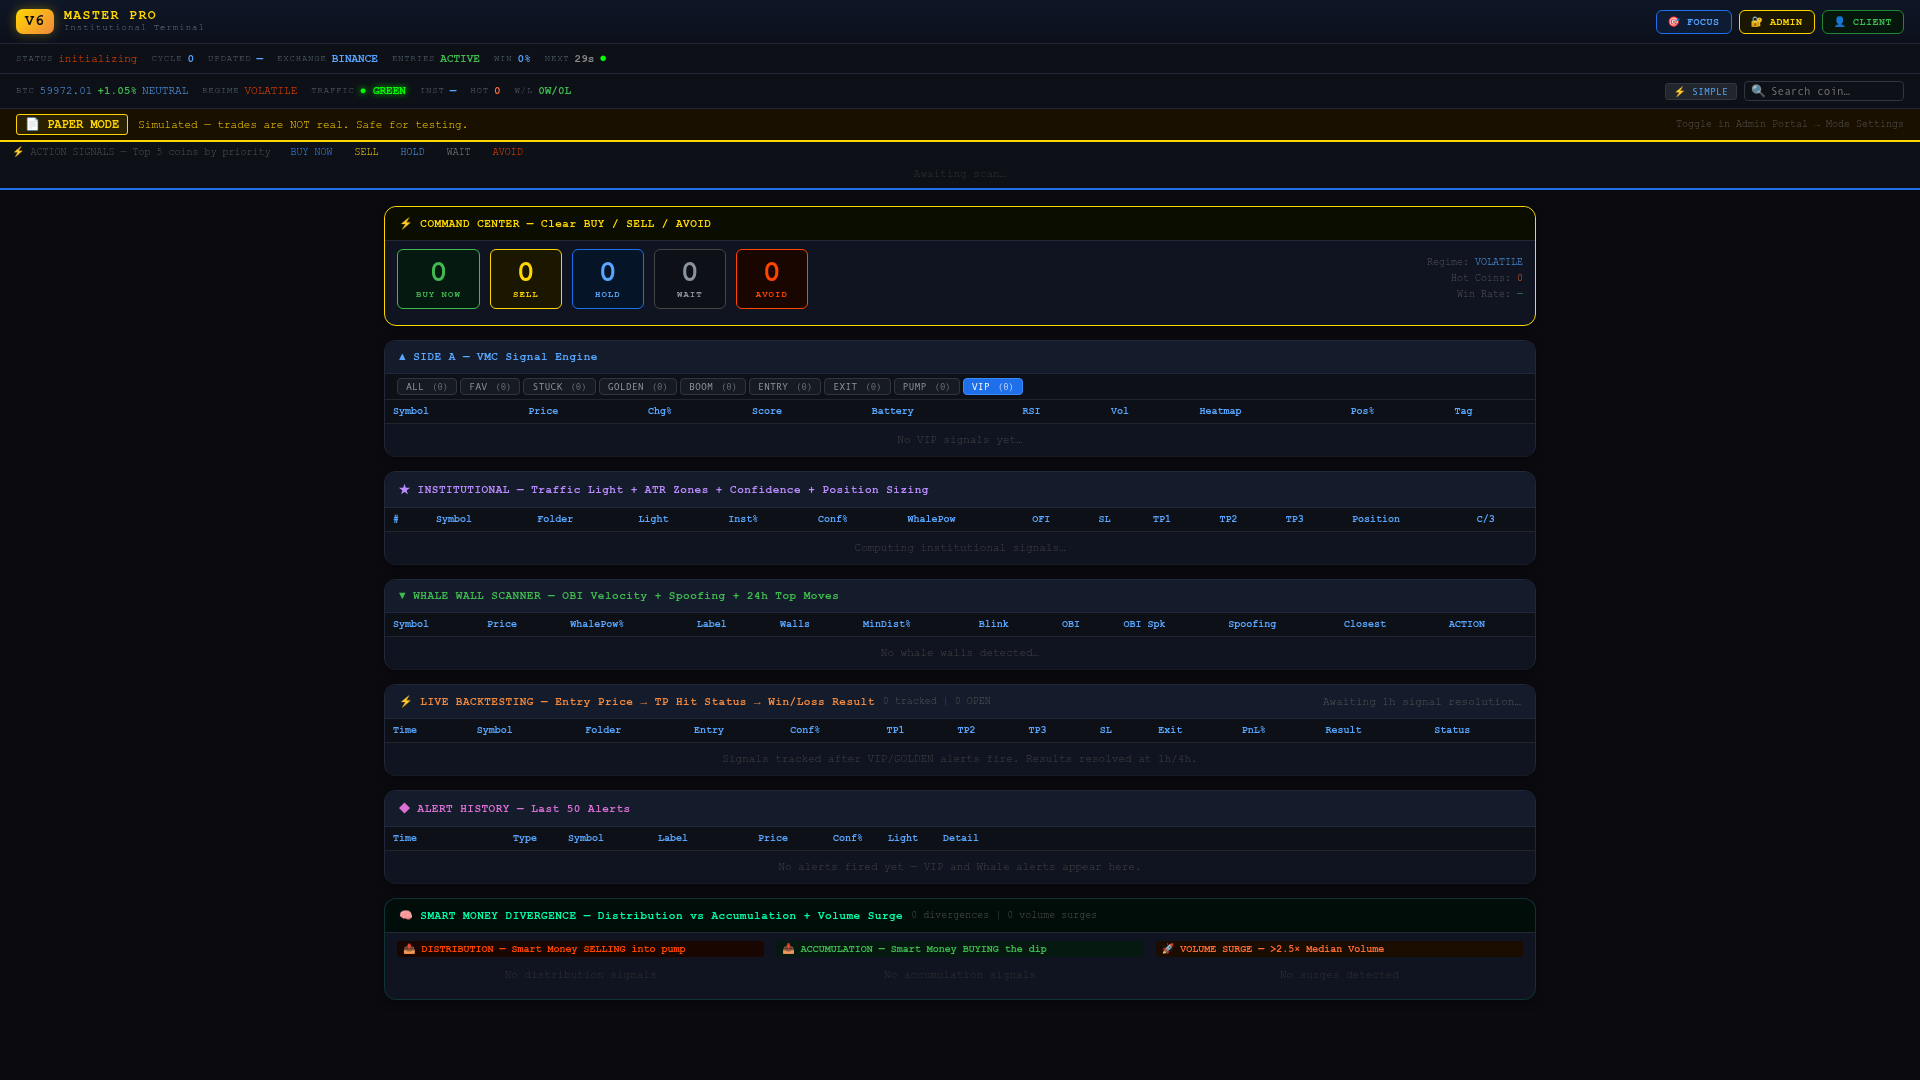
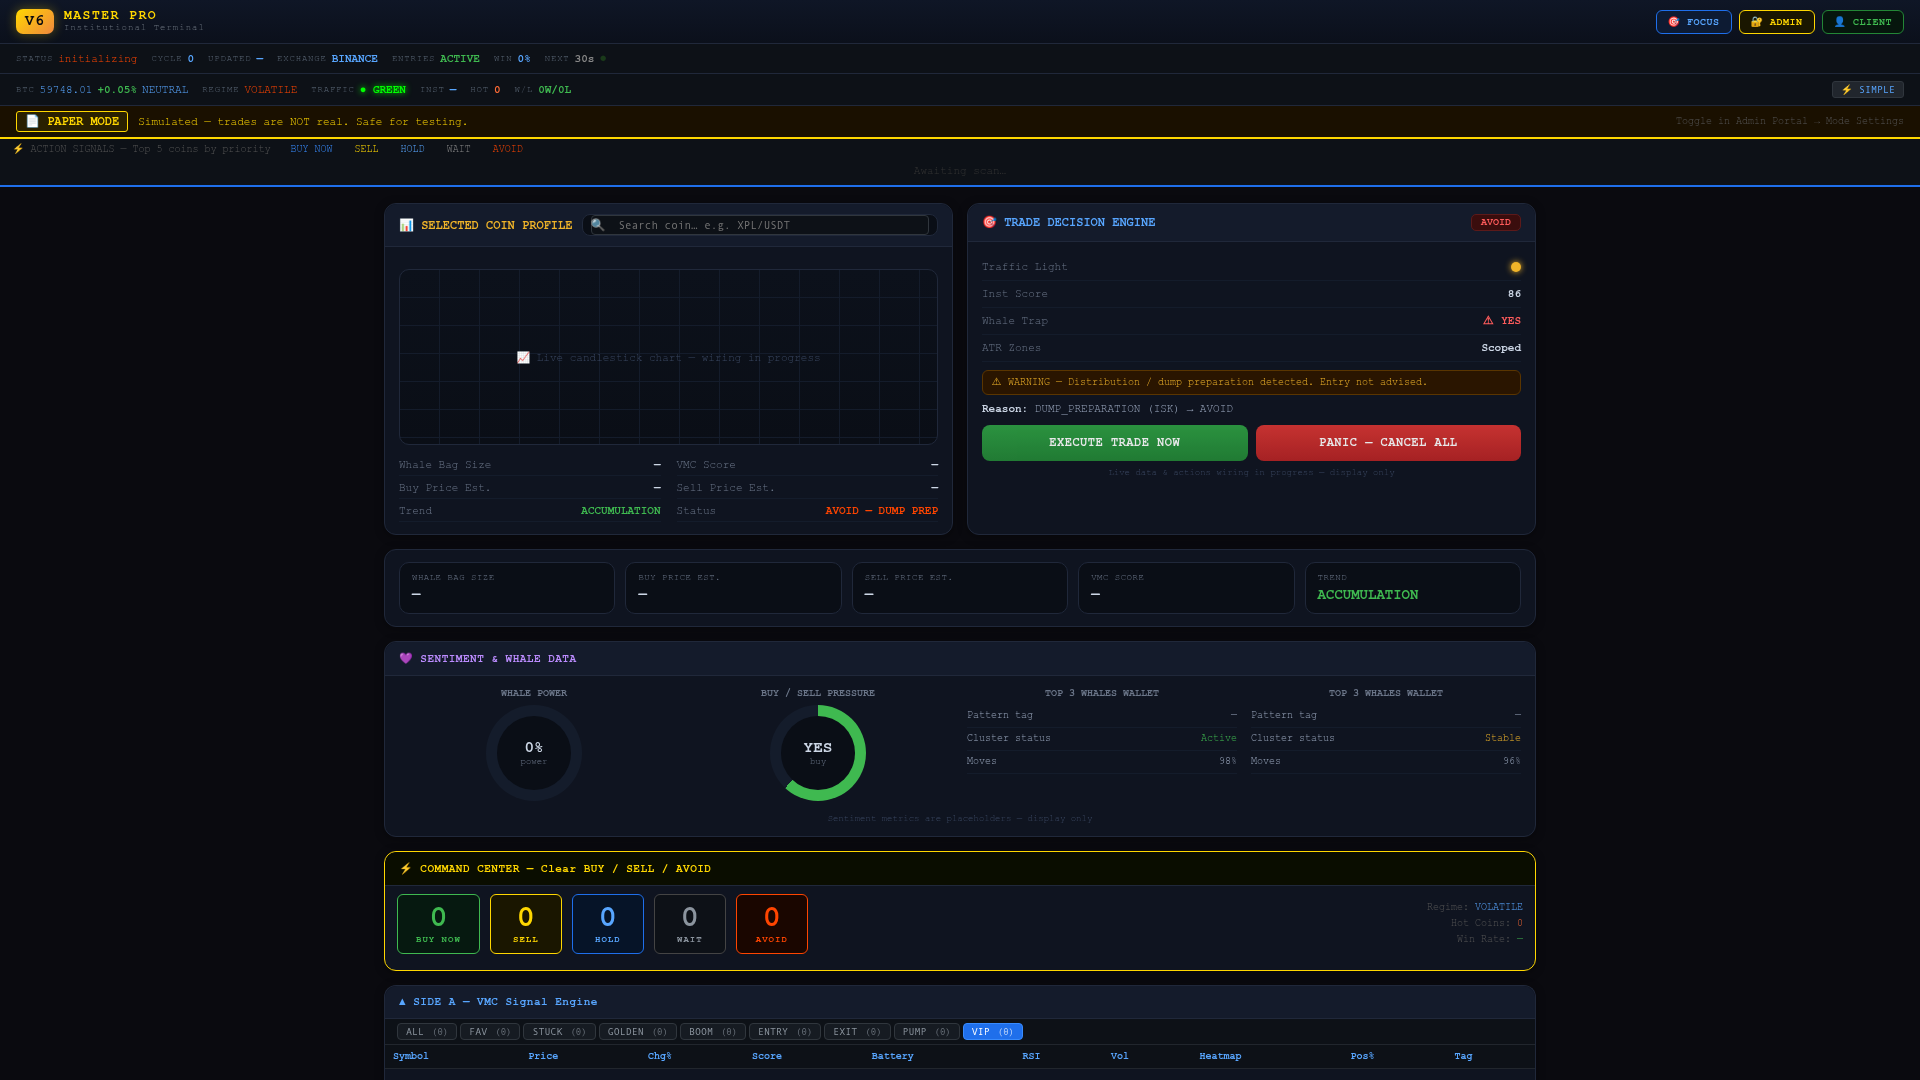
Update the dashboard to match the design and set it as the default view
Implement the redesigned dashboard UI with static placeholders for new components, set it as the default landing page, and preserve all existing live data panels and element IDs.

Replit-Commit-Author: Agent
Replit-Commit-Session-Id: be32f168-d16d-4131-b2b5-eff7703ee3bd
Replit-Commit-Checkpoint-Type: full_checkpoint
Replit-Commit-Event-Id: c21b506f-391d-470a-908d-5cce3a0ce82e
Replit-Commit-Screenshot-Url: https://storage.googleapis.com/screenshot-production-us-central1/96e45e93-5690-48cf-b9a9-a27b3c00e2b2/be32f168-d16d-4131-b2b5-eff7703ee3bd/JWXujlM
Replit-Helium-Checkpoint-Created: true

diff --git a/index.html b/index.html
@@ -391,6 +391,93 @@ tr:hover td { background: #161b22; cursor: pointer; }
       cursor: pointer; font-family: monospace; border: none; margin-left: 3px; vertical-align: middle; }
 .qb-buy  { background: #238636; color: #fff; }
 .qb-sell { background: #b91c1c; color: #fff; }
+/* ══ Terminal Dashboard Components (screenshot layout) ══ */
+.grid-2 { display:grid; grid-template-columns:1fr 1fr; gap:14px; }
+.section-title { font-size:11px; font-weight:bold; letter-spacing:0.6px; color:#7d8aa3;
+  text-transform:uppercase; margin:2px 2px -4px; }
+.card-body { padding:12px 14px; }
+.panel.open { overflow:visible; }
+
+/* Coin Profile */
+.cp-head { display:flex; align-items:center; gap:10px; flex-wrap:wrap; }
+.cp-title { font-weight:bold; color:#f0b429; font-size:12px; white-space:nowrap; }
+.cp-search { position:relative; display:flex; align-items:center; flex:1; min-width:150px;
+  background:#0a0e16; border:1px solid #20283a; border-radius:8px; padding:0 8px; }
+.cp-search input { flex:1; background:transparent; border:none; color:#e6edf3; font-family:inherit;
+  font-size:12px; padding:8px 6px; outline:none; }
+.chart-box { height:176px; margin:10px 0; border-radius:10px; border:1px solid #20283a; position:relative; overflow:hidden;
+  background:
+    repeating-linear-gradient(to right, transparent 0 39px, #141c2b 39px 40px),
+    repeating-linear-gradient(to bottom, transparent 0 27px, #141c2b 27px 28px),
+    linear-gradient(180deg,#0c111b,#0a0e16); }
+.chart-box::after { content:"📈 Live candlestick chart — wiring in progress"; position:absolute; inset:0;
+  display:flex; align-items:center; justify-content:center; color:#3a4761; font-size:11px; }
+.cp-stats { display:grid; grid-template-columns:repeat(2,1fr); gap:2px 16px; font-size:11px; }
+.cp-stat { display:flex; justify-content:space-between; border-bottom:1px solid #141c2b; padding:4px 0; }
+.cp-stat .k { color:#6b7689; } .cp-stat .v { color:#cdd7e6; font-weight:bold; }
+
+/* Trade Decision Engine */
+.tde-head { display:flex; align-items:center; gap:8px; }
+.tde-title { font-weight:bold; color:#58a6ff; font-size:12px; }
+.tde-badge { margin-left:auto; font-size:10px; font-weight:bold; padding:2px 9px; border-radius:5px;
+  background:#3a0d0d; color:#ff5c5c; border:1px solid #5c1a1a; }
+.tde-row { display:flex; align-items:center; gap:8px; padding:7px 0; border-bottom:1px solid #141c2b; font-size:11px; }
+.tde-row .k { color:#6b7689; flex:1; }
+.tde-row .v { font-weight:bold; color:#cdd7e6; }
+.dot { width:10px; height:10px; border-radius:50%; display:inline-block; vertical-align:middle; }
+.dot.green{background:#3fb950;box-shadow:0 0 6px #3fb950;} .dot.red{background:#ff4500;box-shadow:0 0 6px #ff4500;}
+.dot.amber{background:#f0b429;box-shadow:0 0 6px #f0b429;}
+.tde-warn { background:#2a1500; border:1px solid #5a3500; color:#f0b429; font-size:10px;
+  padding:6px 9px; border-radius:6px; margin:8px 0; }
+.tde-reason { font-size:11px; color:#9aa7bd; margin:6px 0; }
+.tde-reason b { color:#cdd7e6; }
+.tde-actions { display:flex; gap:8px; margin-top:10px; }
+.btn-execute,.btn-panic { flex:1; border:none; border-radius:8px; padding:11px; font-weight:bold;
+  font-family:inherit; font-size:12px; cursor:not-allowed; letter-spacing:0.5px; opacity:0.9; }
+.btn-execute { background:linear-gradient(180deg,#2ea043,#238636); color:#fff; }
+.btn-panic { background:linear-gradient(180deg,#da3633,#b62324); color:#fff; }
+.wired-note { font-size:9px; color:#3a4761; text-align:center; margin-top:7px; }
+
+/* Metric strip (whale bag / price est) */
+.metric-row { display:grid; grid-template-columns:repeat(5,1fr); gap:10px; }
+.metric { background:#0a0e16; border:1px solid #20283a; border-radius:10px; padding:10px 12px; }
+.metric .k { font-size:9px; color:#6b7689; text-transform:uppercase; letter-spacing:0.5px; }
+.metric .v { font-size:14px; font-weight:bold; color:#cdd7e6; margin-top:4px; }
+
+/* Sentiment & whale gauges */
+.sentiment-grid { display:grid; grid-template-columns:repeat(4,1fr); gap:14px; align-items:start; }
+.sent-col { text-align:center; }
+.sent-col h4 { font-size:10px; color:#6b7689; text-transform:uppercase; margin-bottom:2px; }
+.gauge { position:relative; width:96px; height:96px; border-radius:50%; margin:6px auto;
+  background:conic-gradient(var(--c,#3fb950) calc(var(--p,0)*1%), #141c2b 0); }
+.gauge-inner { position:absolute; inset:11px; border-radius:50%; background:#0a0e16;
+  display:flex; flex-direction:column; align-items:center; justify-content:center; }
+.gauge-inner .gv { font-size:16px; font-weight:bold; color:#cdd7e6; }
+.gauge-inner .gl { font-size:9px; color:#6b7689; }
+.whale-wallet { font-size:10px; color:#9aa7bd; text-align:left; line-height:1.6; margin-top:6px; }
+.whale-wallet .wrow { display:flex; justify-content:space-between; border-bottom:1px solid #141c2b; padding:3px 0; }
+
+/* Mini strategy cards (HIFI / DOGE etc.) */
+.mini-grid { display:grid; grid-template-columns:repeat(3,1fr); gap:14px; }
+.mini-card { background:#0f1420; border:1px solid #20283a; border-radius:12px; padding:12px 14px; }
+.mini-head { display:flex; align-items:center; gap:8px; font-weight:bold; font-size:12px; margin-bottom:8px; }
+.mini-row { display:flex; justify-content:space-between; align-items:center; font-size:11px; padding:5px 0; border-bottom:1px solid #141c2b; }
+.mini-row .k { color:#6b7689; } .mini-row .v { color:#cdd7e6; font-weight:bold; }
+.tag { font-size:9px; font-weight:bold; padding:2px 7px; border-radius:4px; }
+.tag-spot { background:#0d2818; color:#3fb950; border:1px solid #1a4d2e; }
+.tag-grid { background:#0d1d2e; color:#58a6ff; border:1px solid #1a3a52; }
+.tag-action { background:#3a0d0d; color:#ff5c5c; border:1px solid #5c1a1a; }
+
+/* Client & API management */
+.capi-table { width:100%; border-collapse:collapse; font-size:11px; min-width:480px; }
+.capi-table th { text-align:left; color:#58a6ff; font-size:10px; padding:7px 8px; border-bottom:1px solid #20283a; white-space:nowrap; }
+.capi-table td { padding:8px; border-bottom:1px solid #141c2b; color:#cdd7e6; }
+.status-dot { width:8px; height:8px; border-radius:50%; display:inline-block; margin-right:5px; vertical-align:middle; }
+
+@media (max-width:820px){
+  .grid-2,.mini-grid,.sentiment-grid{ grid-template-columns:1fr; }
+  .metric-row{ grid-template-columns:repeat(2,1fr); }
+}
 </style>
 
 <!-- Alert Sounds -->
@@ -456,12 +543,6 @@ document.addEventListener('click', () => _ac(), { once: true });
   <div class="st-item"><span class="st-k">W/L</span><span id="wl-ratio" style="color:#3fb950;font-weight:bold">—</span></div>
   <div class="ab-nav" style="margin-left:auto">
     <button onclick="toggleSimpleView()" id="sv-toggle-btn" title="Simple View — 5 big coins">⚡ SIMPLE</button>
-    <div class="search-wrap">
-      <span class="search-icon">🔍</span>
-      <input type="text" id="search-input" placeholder="Search coin…" autocomplete="off"
-             oninput="searchCoins(this.value)" onblur="setTimeout(closeSearch,200)">
-      <div id="search-results"></div>
-    </div>
   </div>
 </div>
 
@@ -488,6 +569,105 @@ document.addEventListener('click', () => _ac(), { once: true });
 
 <!-- Main -->
 <div id="main">
+
+  <!-- ROW: Coin Profile + Trade Decision Engine -->
+  <div class="grid-2">
+    <div class="panel open">
+      <div class="panel-header">
+        <div class="cp-head" style="width:100%">
+          <span class="cp-title">📊 SELECTED COIN PROFILE</span>
+          <div class="cp-search">
+            <span class="search-icon">🔍</span>
+            <input type="text" id="search-input" placeholder="Search coin… e.g. XPL/USDT" autocomplete="off"
+                   aria-label="Search coin" oninput="searchCoins(this.value)" onblur="setTimeout(closeSearch,200)">
+            <div id="search-results"></div>
+          </div>
+        </div>
+      </div>
+      <div class="card-body">
+        <div class="chart-box"></div>
+        <div class="cp-stats">
+          <div class="cp-stat"><span class="k">Whale Bag Size</span><span class="v">—</span></div>
+          <div class="cp-stat"><span class="k">VMC Score</span><span class="v">—</span></div>
+          <div class="cp-stat"><span class="k">Buy Price Est.</span><span class="v">—</span></div>
+          <div class="cp-stat"><span class="k">Sell Price Est.</span><span class="v">—</span></div>
+          <div class="cp-stat"><span class="k">Trend</span><span class="v" style="color:#3fb950">ACCUMULATION</span></div>
+          <div class="cp-stat"><span class="k">Status</span><span class="v" style="color:#ff4500">AVOID — DUMP PREP</span></div>
+        </div>
+      </div>
+    </div>
+
+    <div class="panel">
+      <div class="panel-header">
+        <div class="tde-head" style="width:100%">
+          <span class="tde-title">🎯 TRADE DECISION ENGINE</span>
+          <span class="tde-badge">AVOID</span>
+        </div>
+      </div>
+      <div class="card-body">
+        <div class="tde-row"><span class="k">Traffic Light</span><span class="dot amber"></span></div>
+        <div class="tde-row"><span class="k">Inst Score</span><span class="v">86</span></div>
+        <div class="tde-row"><span class="k">Whale Trap</span><span class="v" style="color:#ff5c5c">⚠ YES</span></div>
+        <div class="tde-row"><span class="k">ATR Zones</span><span class="v">Scoped</span></div>
+        <div class="tde-warn">⚠ WARNING — Distribution / dump preparation detected. Entry not advised.</div>
+        <div class="tde-reason"><b>Reason:</b> DUMP_PREPARATION (ISK) → AVOID</div>
+        <div class="tde-actions">
+          <button type="button" class="btn-execute" disabled aria-disabled="true">EXECUTE TRADE NOW</button>
+          <button type="button" class="btn-panic" disabled aria-disabled="true">PANIC — CANCEL ALL</button>
+        </div>
+        <div class="wired-note">Live data &amp; actions wiring in progress — display only</div>
+      </div>
+    </div>
+  </div>
+
+  <!-- ROW: Whale / price metrics -->
+  <div class="panel">
+    <div class="card-body">
+      <div class="metric-row">
+        <div class="metric"><div class="k">Whale Bag Size</div><div class="v">—</div></div>
+        <div class="metric"><div class="k">Buy Price Est.</div><div class="v">—</div></div>
+        <div class="metric"><div class="k">Sell Price Est.</div><div class="v">—</div></div>
+        <div class="metric"><div class="k">VMC Score</div><div class="v">—</div></div>
+        <div class="metric"><div class="k">Trend</div><div class="v" style="color:#3fb950">ACCUMULATION</div></div>
+      </div>
+    </div>
+  </div>
+
+  <!-- ROW: Sentiment & Whale Data -->
+  <div class="panel">
+    <div class="panel-header">
+      <span class="panel-label" style="color:#bc8cff">💜 SENTIMENT &amp; WHALE DATA</span>
+    </div>
+    <div class="card-body">
+      <div class="sentiment-grid">
+        <div class="sent-col">
+          <h4>Whale Power</h4>
+          <div class="gauge" style="--p:0;--c:#ff4500"><div class="gauge-inner"><span class="gv">0%</span><span class="gl">power</span></div></div>
+        </div>
+        <div class="sent-col">
+          <h4>Buy / Sell Pressure</h4>
+          <div class="gauge" style="--p:62;--c:#3fb950"><div class="gauge-inner"><span class="gv">YES</span><span class="gl">buy</span></div></div>
+        </div>
+        <div class="sent-col">
+          <h4>Top 3 Whales Wallet</h4>
+          <div class="whale-wallet">
+            <div class="wrow"><span>Pattern tag</span><span>—</span></div>
+            <div class="wrow"><span>Cluster status</span><span style="color:#3fb950">Active</span></div>
+            <div class="wrow"><span>Moves</span><span>98%</span></div>
+          </div>
+        </div>
+        <div class="sent-col">
+          <h4>Top 3 Whales Wallet</h4>
+          <div class="whale-wallet">
+            <div class="wrow"><span>Pattern tag</span><span>—</span></div>
+            <div class="wrow"><span>Cluster status</span><span style="color:#f0b429">Stable</span></div>
+            <div class="wrow"><span>Moves</span><span>96%</span></div>
+          </div>
+        </div>
+      </div>
+      <div class="wired-note">Sentiment metrics are placeholders — display only</div>
+    </div>
+  </div>
 
   <!-- PANEL 0: Command Center -->
   <div class="panel" id="panel-cc" style="border-color:#FFD700">
@@ -637,6 +817,48 @@ document.addEventListener('click', () => _ac(), { once: true });
         <div class="smd-head" style="color:#FF6B35;background:#1a0d00">🚀 VOLUME SURGE — &gt;2.5× Median Volume</div>
         <div id="smd-vsurge"><div class="ab-empty">No volume surges</div></div>
       </div>
+    </div>
+  </div>
+
+  <!-- ROW: Strategy panels below table -->
+  <div class="section-title">Panels Below Table</div>
+  <div class="mini-grid">
+    <div class="mini-card">
+      <div class="mini-head"><span style="color:#58a6ff">🟦 HIFI</span><span class="tag tag-spot" style="margin-left:auto">SPOT</span><span class="tag tag-action">ADA</span></div>
+      <div class="mini-row"><span class="k">Expected Profit</span><span class="v" style="color:#3fb950">—</span></div>
+      <div class="mini-row"><span class="k">R/R Ratio</span><span class="v">—</span></div>
+      <div class="mini-row"><span class="k">Mode</span><span class="tag tag-grid">GRID</span></div>
+    </div>
+    <div class="mini-card">
+      <div class="mini-head"><span style="color:#f0b429">🐕 DOGE</span><span class="tag tag-action" style="margin-left:auto">Action</span></div>
+      <div class="mini-row"><span class="k">Expected Profit</span><span class="v" style="color:#3fb950">—</span></div>
+      <div class="mini-row"><span class="k">R/R Ratio</span><span class="v">—</span></div>
+      <div class="mini-row"><span class="k">Mode</span><span class="tag tag-grid">GRID</span></div>
+    </div>
+    <div class="mini-card">
+      <div class="mini-head"><span style="color:#bc8cff">🧠 SMART MONEY</span></div>
+      <div class="mini-row"><span class="k">Accumulation</span><span class="v" style="color:#3fb950">—</span></div>
+      <div class="mini-row"><span class="k">Distribution</span><span class="v" style="color:#ff4500">—</span></div>
+      <div class="mini-row"><span class="k">Volume Surge</span><span class="v" style="color:#ff6b35">—</span></div>
+    </div>
+  </div>
+
+  <!-- ROW: Client & API management -->
+  <div class="panel">
+    <div class="panel-header">
+      <span class="panel-label" style="color:#3fb950">🔗 CLIENT &amp; API MANAGEMENT</span>
+    </div>
+    <div class="table-wrap" style="max-height:none">
+      <table class="capi-table">
+        <thead><tr><th>API</th><th>Exchange</th><th>Client</th><th>Sheets Sync</th></tr></thead>
+        <tbody>
+          <tr><td>APA / USDT</td><td><span class="status-dot" style="background:#3fb950"></span>Connected APIs</td><td>binance@Binance</td><td style="color:#3fb950">Synced</td></tr>
+          <tr><td>XPL / USDT</td><td><span class="status-dot" style="background:#3fb950"></span>Connected APIs</td><td>masserjae</td><td style="color:#3fb950">Synced</td></tr>
+        </tbody>
+      </table>
+    </div>
+    <div class="card-body" style="border-top:1px solid #141c2b;font-size:11px;color:#9aa7bd">
+      Telegram Proxy: <b style="color:#3fb950">ACTIVE</b> &nbsp;·&nbsp; <span style="color:#3a4761">connection management wiring in progress — display only</span>
     </div>
   </div>
 
@@ -1383,7 +1605,7 @@ function closeSearch() {
 }
 
 // ── Simple View ───────────────────────────────────────────────────────────────
-let _svActive = true;
+let _svActive = false;
 function toggleSimpleView() {
   _svActive = !_svActive;
   const sv   = document.getElementById('simple-view');
@@ -1647,7 +1869,7 @@ setInterval(tick, 1000);
 </div>
 
 <!-- SIMPLE VIEW OVERLAY -->
-<div id="simple-view" class="active">
+<div id="simple-view">
   <div class="sv-header">
     <h2>⚡ SIMPLE VIEW — V6 MASTER PRO</h2>
     <span id="sv-sub" style="color:#555;font-size:11px"></span>

diff --git a/.agents/memory/dashboard-ui-structure.md b/.agents/memory/dashboard-ui-structure.md
@@ -13,15 +13,14 @@ The page JS touches the DOM ONLY via `getElementById` + `innerHTML` — no
 toggles or injects. Audit with `grep -oE 'id="[^"]+"' index.html | sort | uniq -d`
 (must be empty) and confirm each JS `getElementById` target resolves once.
 
-## Simple View is the DEFAULT landing, not the main dashboard
-`#simple-view` ships with `class="active"` AND `let _svActive = true`, so on load
-the Simple View overlay (fixed, `inset:0`, `z-index:500`) covers the main
-dashboard. Users click "← Full Dashboard" (`toggleSimpleView()`) to reach it.
-`renderSimpleView()` does NOT add `active` — only `toggleSimpleView()` does.
-**Why it matters:** to screenshot/verify the redesigned main dashboard you must
-disable the overlay (remove `active` from the `#simple-view` div), restart,
-verify, then RESTORE `class="active"` — it is pre-existing behavior, do not alter
-it permanently.
+## Main dashboard is the DEFAULT landing (Simple View is opt-in)
+The main dashboard now loads by default: `#simple-view` has NO `class="active"`
+and `let _svActive = false`. Users click "⚡ SIMPLE" (`toggleSimpleView()`) to
+open the Simple View overlay (fixed, `inset:0`, `z-index:500`). `renderSimpleView()`
+does NOT add `active` — only `toggleSimpleView()` does.
+**Why it matters:** this was an intentional, permanent change requested by the user.
+Do NOT re-add `class="active"` or flip `_svActive` back to `true`. To screenshot/
+verify the main dashboard, no overlay-disabling step is needed anymore.
 
 ## Firecrawl `external_url` screenshots cache hard
 Two consecutive screenshots of the same URL returned byte-identical images.
@@ -34,10 +33,17 @@ Layout is made RTL-safe with `unicode-bidi: plaintext` on `td` and text-bearing
 classes (`.ab-reason`, `.hist-detail`, `.cc-top-coin`, `.s-row`). Do not invent
 Urdu text — only keep the CSS safe.
 
-## Layout shape (after consolidation)
-`#app-bar` (sticky) → `#status-strip` + `#market-strip` (NOT sticky, avoids
-overlap) → `#paper-banner` / `#action-banner` → `#main` (flex column, gap, max
-1180px centered) holding 7 `.panel` cards: Command Center, panel-a VMC,
-panel-b Institutional, panel-c Whale Wall, panel-d Live Backtesting,
-panel-e Alert History, Smart Money Divergence. `focus.html` (`/focus`) is a
-separate page — leave it alone.
+## Layout shape (after screenshot rebuild)
+`#app-bar` (sticky) → `#status-strip` + `#market-strip` → `#paper-banner` /
+`#action-banner` → `#main` (flex column, max 1180px centered). `#main` now opens
+with STATIC screenshot UI placeholders (display-only, no data wiring): Coin
+Profile card (`.panel.open` so the relocated `#search-input`/`#search-results`
+dropdown isn't clipped) + chart-box placeholder, Trade Decision Engine
+(`.tde-*`, disabled `.btn-execute`/`.btn-panic`), whale-bag `.metric-row`,
+`.sentiment-grid` gauges. Below those sit the LIVE data `.panel` cards (unchanged
+IDs): Command Center, panel-a VMC, panel-b Institutional, panel-c Whale Wall,
+panel-d Backtesting, panel-e Alert History, panel-f Smart Money Divergence, then
+static HIFI/DOGE `.mini-grid` + Client & API `.capi-table`.
+**Why:** user wanted the screenshot's terminal look but keep all existing data —
+so new sections are placeholders and every live panel/ID was preserved.
+`focus.html` (`/focus`) is a separate page — leave it alone.